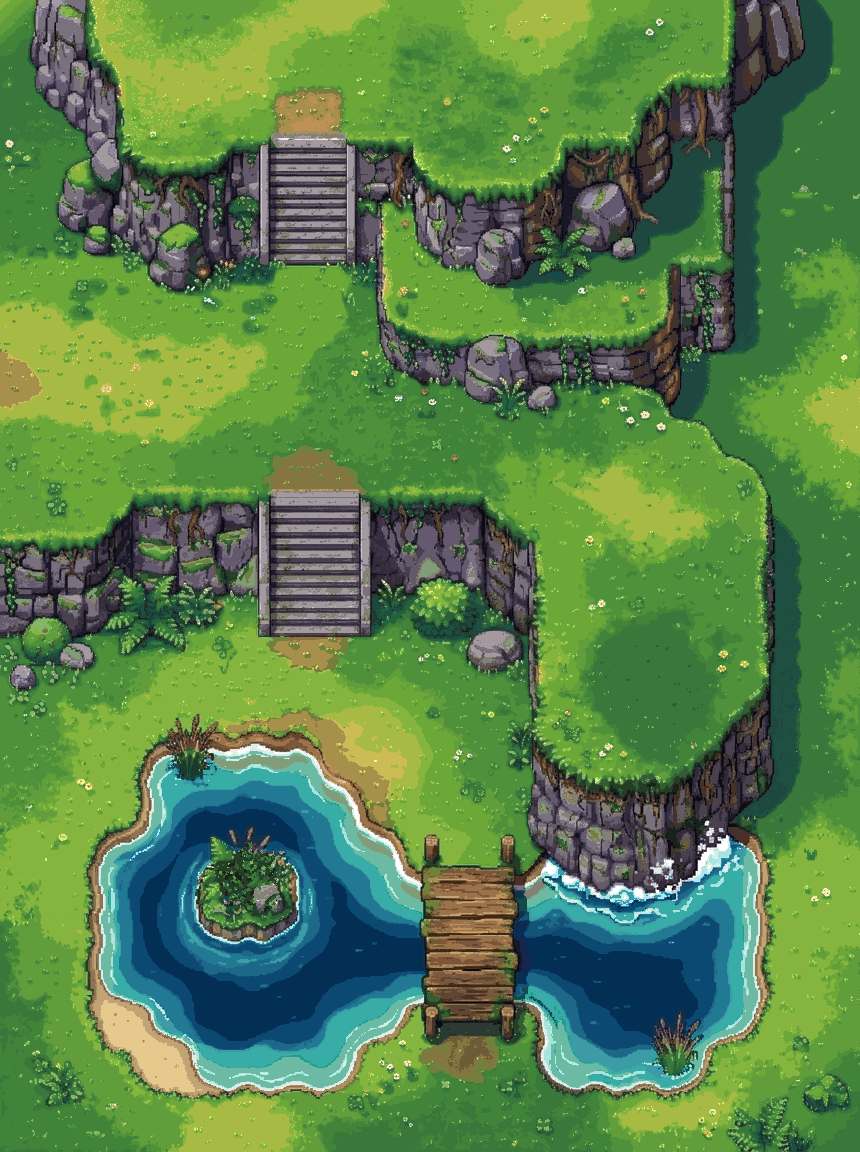
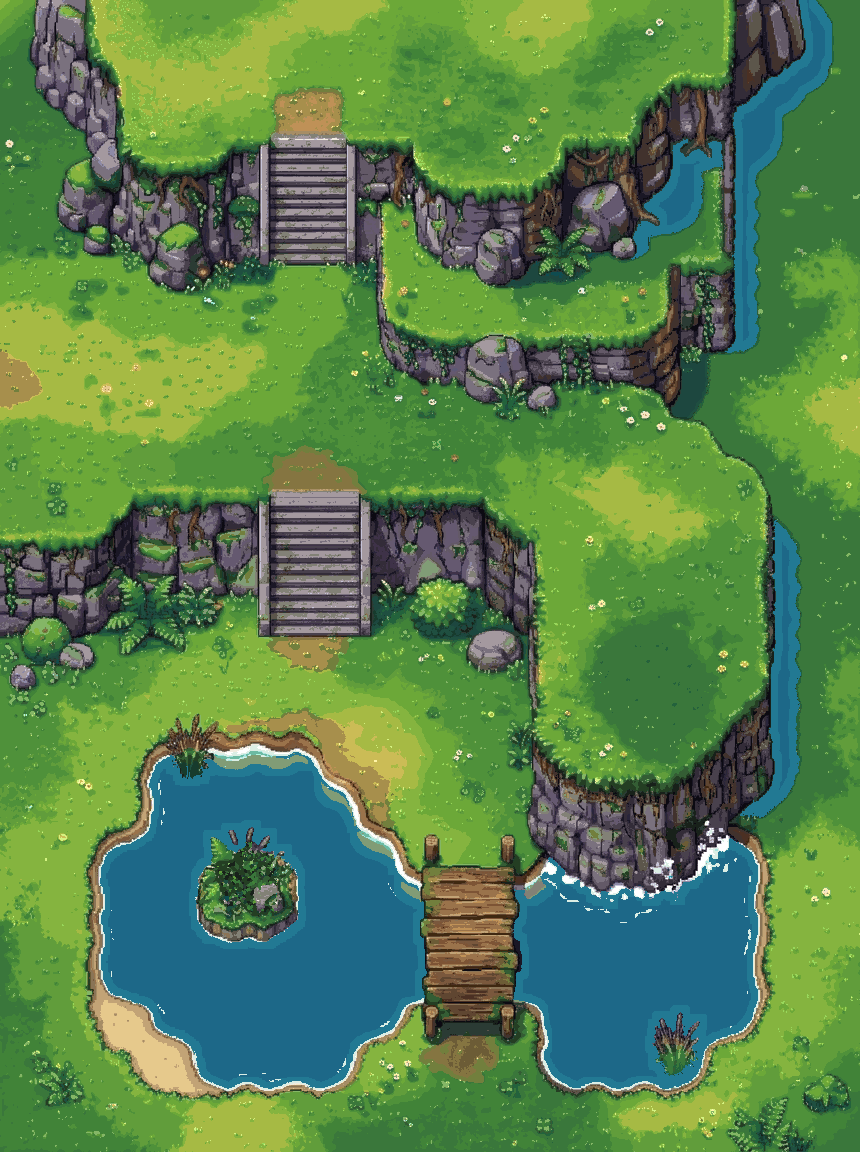
Companion terrain: the pond in two flat tones

Changed region(s): [[0.1209, 0.6562, 0.514, 0.9688], [0.5744, 0.4375, 0.9372, 0.9688], [0.7256, 0.0, 0.9674, 0.3125]]

diff --git a/art/companion-48/tools/b1-water.py b/art/companion-48/tools/b1-water.py
@@ -1,0 +1,61 @@
+"""The pond in one or two flat tones (owner, 2026-10-10 20:05: "the water in the pond can be 1-2 colors, no need for so many shades").
+Every water pixel of the scene becomes one of two tones by its distance from land: a shallow band (the lighter tone) within SHALLOW px
+of a bank, the body (the deeper tone) beyond it. The edge detail stays and is not a shade of the water: the foam line and the light
+wet line within 2 px of a bank (the scene's own white and pale pixels there) and the bank shadow. The biome palette keeps, for water,
+only these: the two tones, the foam white and the wet line. Rewrites the scene and both screens; prints the water colours left.
+usage: python3 -I b1-water.py B1_DIR [SHALLOW]"""
+import json, os, sys
+import numpy as np
+from PIL import Image
+d = sys.argv[1]; SHALLOW = int(sys.argv[2]) if len(sys.argv) > 2 else 7
+cols = json.load(open(os.path.join(d, "biome-meadow.json")))["colours"]
+hx = lambda h: tuple(int(h[k:k + 2], 16) for k in (1, 3, 5))
+PAL = np.array([hx(c["hex"]) for c in cols]); mat = np.array([c.get("material", "core") for c in cols])
+img = np.asarray(Image.open(os.path.join(d, "scene-1x.png")).convert("RGB")).astype(int)
+H, W = img.shape[:2]
+idx = ((img.reshape(-1, 1, 3) - PAL[None]) ** 2).sum(-1).argmin(1).reshape(H, W)
+r, g, b = img[..., 0], img[..., 1], img[..., 2]
+foam = (r > 190) & (g > 200) & (b > 200)                   # the foam and the wet line, near-white
+water = ((mat[idx] == "water") | ((b > r + 25) & (b >= g - 10)) | ((g > r + 40) & (b > r + 30))) & ~foam   # the pond, teal and navy alike
+def components(m, min_px):
+    """keep only connected areas of at least min_px (the pond and its arms, not a dark leaf by a bush)"""
+    lab = np.zeros(m.shape, int); keep = np.zeros(m.shape, bool); cur = 0
+    for y0, x0 in zip(*np.where(m)):
+        if lab[y0, x0]: continue
+        cur += 1; st = [(y0, x0)]; lab[y0, x0] = cur; pts = []
+        while st:
+            y, x = st.pop(); pts.append((y, x))
+            for dy, dx in ((1, 0), (-1, 0), (0, 1), (0, -1)):
+                yy, xx = y + dy, x + dx
+                if 0 <= yy < m.shape[0] and 0 <= xx < m.shape[1] and m[yy, xx] and not lab[yy, xx]: lab[yy, xx] = cur; st.append((yy, xx))
+        if len(pts) >= min_px:
+            ys, xs = zip(*pts); keep[list(ys), list(xs)] = True
+    return keep
+water = components(water, 2000)
+def grow(m, n):
+    m = m.copy()
+    for _ in range(n): m[1:] |= m[:-1]; m[:-1] |= m[1:]; m[:, 1:] |= m[:, :-1]; m[:, :-1] |= m[:, 1:]
+    return m
+land = ~water & ~foam
+near = np.zeros((H, W), int) + 99; cur = land.copy()
+for k in range(1, SHALLOW + 1):
+    nxt = grow(cur, 1); near[nxt & ~cur] = k; cur = nxt
+body_ = water & (near > SHALLOW); shallow = water & (near <= SHALLOW) & (near > 2)
+# the two tones: the mean of the scene's own body and shallow pixels, snapped to the biome's water colours
+wat = [i for i in range(len(cols)) if mat[i] == "water"] or list(range(len(cols)))
+def pick(mask):
+    m = img[mask].mean(0); return wat[int(((PAL[wat] - m) ** 2).sum(1).argmin())]
+deep_i = pick(body_)
+lum = lambda i: 0.2126 * PAL[i][0] + 0.7152 * PAL[i][1] + 0.0722 * PAL[i][2]
+lighter = sorted([i for i in wat if lum(i) >= lum(deep_i) + 12], key=lum)
+shal_i = lighter[0] if lighter else deep_i                  # the shallow tone: the next water colour a clear step lighter
+out = idx.copy(); out[body_] = deep_i; out[shallow] = shal_i
+edge = water & (near <= 2)                                  # the 2 px under a bank: keep the scene's own foam/wet/bank pixels
+out[edge & ~foam] = shal_i
+Image.fromarray(PAL[out].astype(np.uint8)).save(os.path.join(d, "scene-1x.png"))
+full = Image.open(os.path.join(d, "scene-1x.png"))
+px0, py0 = (W - 450) // 2, H - 532 - 40
+for nm, (cx, cy) in {"screen-pond": (px0, py0), "screen-cliffs": (20, 60)}.items():
+    cr = full.crop((cx, cy, cx + 450, cy + 532)); cr.save(os.path.join(d, f"{nm}-1x.png")); cr.resize((1350, 1596), Image.NEAREST).save(os.path.join(d, f"{nm}-3x.png"))
+used_w = sorted(set(out[water | foam].ravel().tolist()))
+print("water tones:", cols[deep_i]["hex"], cols[shal_i]["hex"], "| colours on water and foam:", [cols[i]["hex"] for i in used_w])

diff --git a/art/companion-48/terrain/grass/mockup/b1/README.md b/art/companion-48/terrain/grass/mockup/b1/README.md
@@ -16,6 +16,7 @@
 - **The snap.** The scene is area-averaged so a tile is 48 px, and each pixel takes the nearest colour in Lab.
   - **No soft gradients.** On lawn and water, a pixel takes the most common colour of its 3×3 neighbourhood when that colour holds 5 of the 9 and is the same material. Gradients become hard-edged bands; tuft and clover clusters, rock, wood, outlines and flowers stay as drawn.
   - Mean colour error against the repaint: 4.5.
+- **The pond in two flat tones** (`tools/b1-water.py`; owner, 2026-10-10 20:05: "1-2 colors, no need for so many shades"): the body `#1d6888` and a shallow band `#227993` within 7 px of a bank. The foam line and the wet line stay as edge detail, not as shades of the water.
 - **The hand pass** (`tools/b1-hand.py`). The wooden sign the repaint put on the island is painted out, regrown from the island's own greens.
 - **Checks.**
   - Both screens use only the 96 colours: the cliffs 65, the pond 78.
